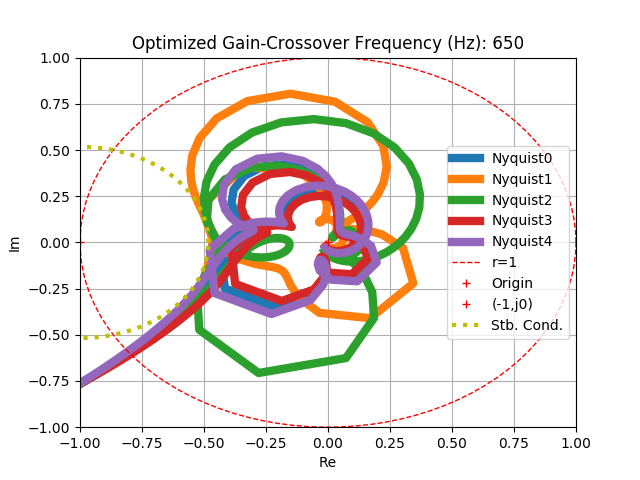
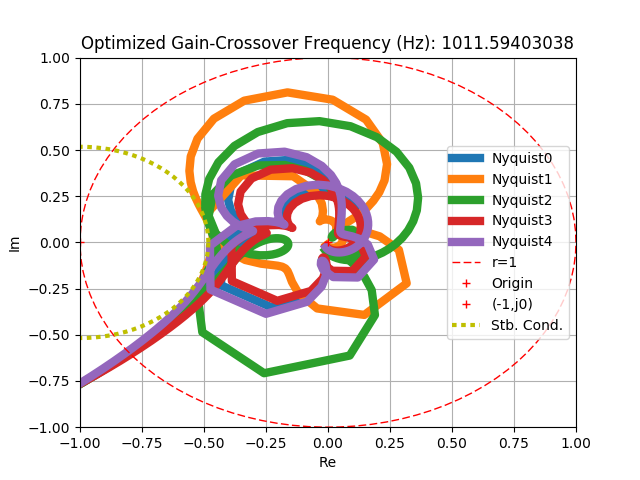
FIX fbcd example1
evaluate real gain-crossover frequency

diff --git a/examples/2_Automated_Feedback_Controller_Design/Example1_Nano_Scale_Servo.py b/examples/2_Automated_Feedback_Controller_Design/Example1_Nano_Scale_Servo.py
@@ -9,6 +9,7 @@ import myplot
 import mycvxopt
 import mysignal
 import mycsv
+import mynum
 
 DATA = "data"
 F = 800  # number of FRF lines
@@ -104,6 +105,9 @@ def optimize(fig, o, g, nofir=5, f_desired_list=[50 + 150 * i for i in range(10)
                 _f = f
                 _c = fbc
                 fbc.lreset()
+                if i > 0 and check_disk(np.dot(fbc.X, fbc.rho), RM, -1):
+                    print("CCCP found local minima @ iteration", i)
+                    break
         except:
             tol -= 1
             if tol < 0:
@@ -116,20 +120,29 @@ def optimize(fig, o, g, nofir=5, f_desired_list=[50 + 150 * i for i in range(10)
         print(g * ' ' + (11 - g) * '*')
 
     assert _f > 0
-    print("Best cross-over frequency:", _f, " Hz")
+    print("Best nominal frequency:", _f, " Hz")
     print("PIDs:", rho[:3])
     print("FIRs:", rho[3:])
     fbc = _c
     assert fbc.rho[-1] == rho[-1] and fbc.rho[0] == rho[0]
+    assert check_disk(np.dot(fbc.X, fbc.rho), RM, -1)
     mycsv.save(rho, save_name=DATA + "/rho" + str(fig) + ".csv",
                header=("P,I,D, FIR(1+n) for n in range(10)", "taud (s):" + str(TAUD), "FIR sampling (s):" + str(TS)))
+
     N = 5  # number of data
+    fbc.split(N)
+    olist = fbc.olist
+    Llist = fbc.Llist
+    gcf = fbc.calc_gcf()
+    print("Gain Crossover Frequencies (Hz):", gcf)
+    print("\tMin. (Hz):", min(gcf))
+    print("\tAve. (Hz):", np.mean(gcf))
+    print("\tMax. (Hz):", max(gcf))
+    _f = min(gcf)
 
     ##########Plot1##########
     fig += 1
-    for j in range(N):
-        L = np.dot(fbc.X[j * F:(j + 1) * F], fbc.rho)
-
+    for L in Llist:
         # Nyquist
         myplot.plot(fig, np.real(L), np.imag(L), lw=6, line_style="-")
 
@@ -153,8 +166,7 @@ def optimize(fig, o, g, nofir=5, f_desired_list=[50 + 150 * i for i in range(10)
     ##########Plot2##########
     fig += 1
     # L(s)
-    for j in range(N):
-        L = np.dot(fbc.X[j * F:(j + 1) * F], fbc.rho)
+    for L in Llist:
         myplot.bodeplot(fig, o[:F] / 2 / np.pi, 20 * np.log10(abs(L)), np.angle(L, deg=True), line_style='-')
     myplot.save(fig, save_name=DATA + "/" + str(fig) + "_bode", title="Openloop L(s)",
                 leg=["L" + str(k) for k in range(N)])
@@ -167,8 +179,7 @@ def optimize(fig, o, g, nofir=5, f_desired_list=[50 + 150 * i for i in range(10)
 
     ##########Plot4##########
     fig += 1
-    for j in range(N):
-        L = np.dot(fbc.X[j * F:(j + 1) * F], fbc.rho)
+    for L in Llist:
         T = 1 / (1 + L)
         S = 1 - T
         myplot.plot(fig, o[:F] / 2 / np.pi, 20 * np.log10(abs(T)), line_style='b-', plotfunc=plt.semilogx)
